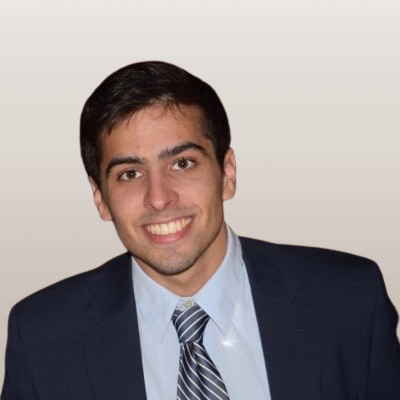
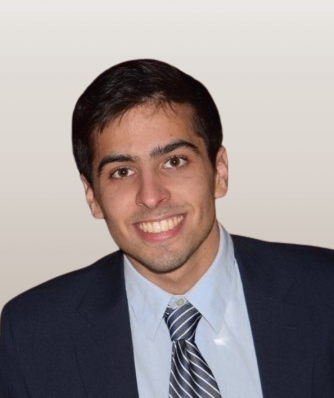
feat: header image

Changed region(s): [[0.1796, 0.1206, 1.0, 1.0], [0.0, 0.7236, 0.0898, 0.995], [0.0898, 0.6935, 0.1198, 0.7236]]

diff --git a/css/styles.css b/css/styles.css
@@ -8,11 +8,19 @@ body {
 
 .profile-picture {
     border: 10px solid #397db9; /* Change the color and size as needed */
-    border-radius: 50%; /* This will make the border circular */
     width: 200px;
     height: 200px;
 }
 
 .profile-container {
     text-align: right;
+}
+
+.header-image img {
+    width: 120%; /* Increase the width to more than 100% */
+    max-width: none; /* Remove the max-width limit */
+    height: auto;
+    display: block;
+    position: relative; /* Add relative positioning */
+    left: -10%; /* Use negative left value to move the image to the left */
 }

diff --git a/index.html b/index.html
@@ -9,6 +9,9 @@
     <script src="https://code.jquery.com/jquery-3.5.1.min.js"></script>
 </head>
 <body>
+    <div>
+        <img src="figures/index/trial_header.jpg" alt="Header Image" class="header-image">
+    </div>
     <h1>A Dismal Scientist's Website</h1>
     <nav>
         <a href="pages/about.html">About Me</a> |
